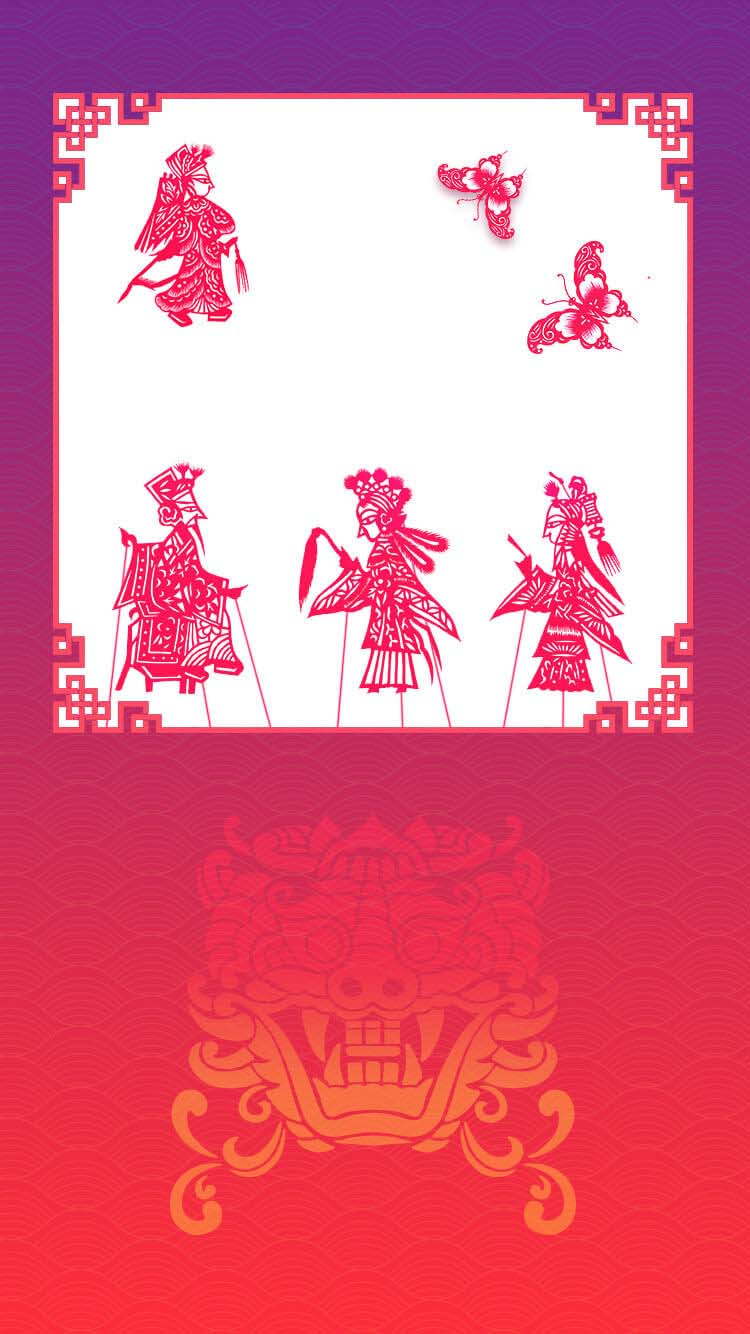
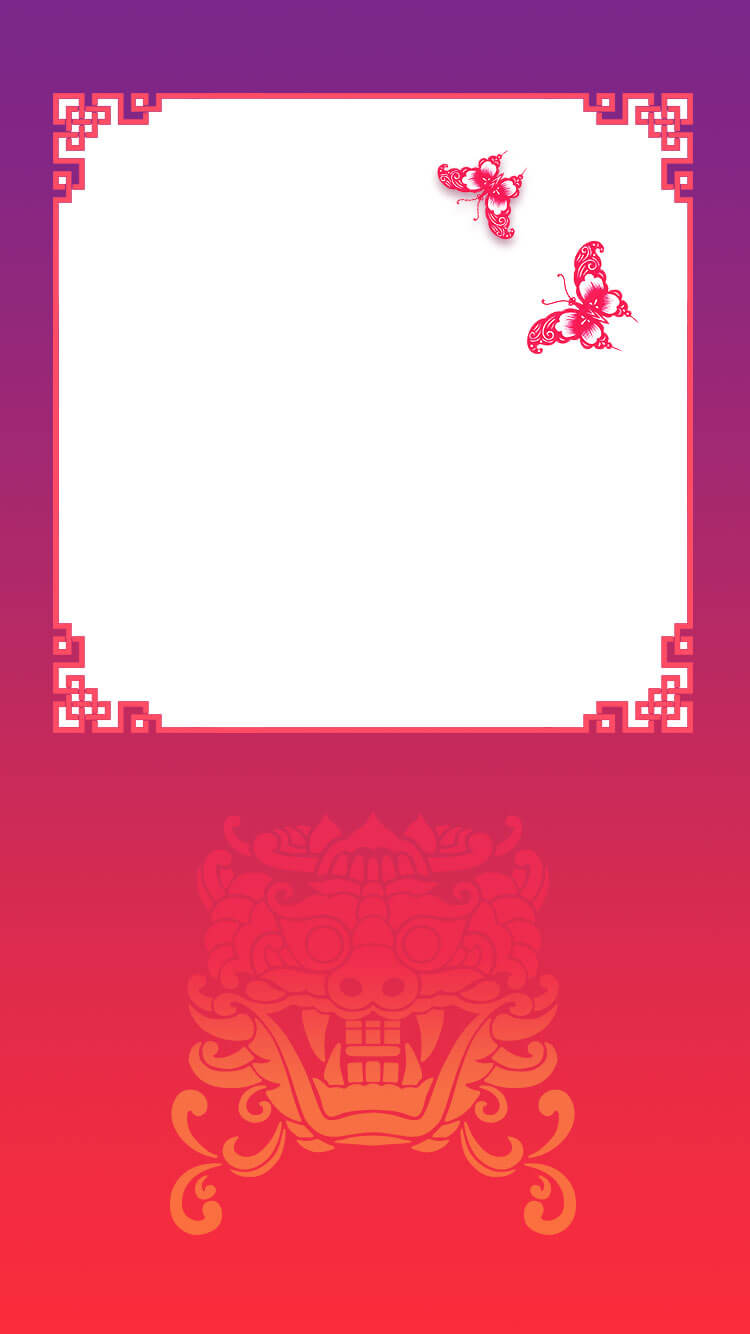
asdf

diff --git a/www/css/index.css b/www/css/index.css
@@ -1,1 +1,1 @@
-*{margin:0;padding:0;-webkit-box-sizing:border-box;-moz-box-sizing:border-box;box-sizing:border-box}:after,:before{-webkit-box-sizing:border-box;-moz-box-sizing:border-box;box-sizing:border-box}input,textarea{-webkit-appearance:none}a,button,img,input,textarea{-webkit-tap-highlight-color:rgba(255,255,255,0)}img{display:block}.fn-clear:after{visibility:hidden;display:block;font-size:0;content:" ";clear:both;height:0}.fn-clear{zoom:1}body,html{height:100%}.swiper-container{width:100%;height:100%;background:#fc2c3b}.swiper-slide{width:100%;height:100%}.ani{position:absolute}.swiper-pagination-bullet{background:#4e4f52;opacity:1}.swiper-pagination-bullet-active{background:#d4d4d7;opacity:1}.audioImg{position:fixed;top:30px;right:30px;width:60px;height:60px;z-index:99999;background:url(../images/music1.png) no-repeat;-webkit-tap-highlight-color:rgba(255,255,255,0);background-size:60px 60px}.audioImg.active{background:url(../images/music.png) no-repeat;background-size:60px 60px}.page1{background:url(../images/1.jpg) no-repeat;background-size:100% auto}.page2{background:url(../images/2.jpg) no-repeat;background-size:100% auto}.page3{background:url(../images/3.jpg) no-repeat;background-size:100% auto}.page4{background:url(../images/4.jpg) no-repeat;background-size:100% auto}.page5{background:url(../images/5.jpg) no-repeat;background-size:100% auto}.page6{background:url(../images/6.jpg) no-repeat;background-size:100% 100%}.page7{background:url(../images/7.jpg) no-repeat;background-size:100% 100%}.animated{display:none}.btnYun{position:fixed;display:none;bottom:.13333333rem;left:4.29333333rem;z-index:9999;animation:indicator 1.2s infinite ease-out;-webkit-animation:indicator 1.2s infinite ease-out}.page1 .logo{position:absolute;top:.8rem;left:3.06666667rem;width:3.68rem}.page1 .yuanpan{position:absolute;top:2.46666667rem;left:1rem;width:8rem}.page1 .animate1{position:absolute;width:8rem;top:2.48rem;left:.98666667rem;transform:rotate(-360deg);animation:loading1 15s linear infinite;-webkit-transform:rotate(-360deg);-webkit-animation:loading1 15s linear infinite}.page1 .animate2{position:absolute;width:7.68rem;top:2.64rem;left:1.17333333rem;transform:rotate(360deg);animation:loading2 10s linear infinite;-webkit-transform:rotate(360deg);-webkit-animation:loading2 10s linear infinite}.page1 .animate3{position:absolute;width:4.41333333rem;top:4.26666667rem;left:2.8rem;animation:animate3 .8s infinite;animation-direction:alternate;-webkit-animation:animate3 .8s infinite;-webkit-animation-direction:alternate}.page1 .xiaoji{position:absolute;top:1.33333333rem;right:.53333333rem;width:2.01333333rem;animation:xiaojichimi 3s infinite;animation-direction:alternate;-webkit-animation:xiaojichimi 3s infinite;-webkit-animation-direction:alternate}.page1 .xiangyun{position:absolute;top:3.33333333rem;left:.86666667rem;width:8.28rem;animation:mybird 5s linear infinite;animation-direction:alternate;-webkit-animation:mybird 5s linear infinite;-webkit-animation-direction:alternate}.page1 .duilian{position:absolute;top:2.53333333rem;left:3.53333333rem;width:3.28rem}.page1 .people1{position:absolute;top:9.94666667rem;left:0;width:3.98666667rem;animation:canglaomou 5s linear infinite;-webkit-animation:canglaomou 5s linear infinite}.page1 .people2{position:absolute;top:12.4rem;right:0;width:3.25333333rem}.page1 .words{position:absolute;top:13.10666667rem;left:1.4rem;width:7.64rem}.page2 .logo{position:absolute;top:1.46666667rem;left:3.06666667rem;width:3.68rem}.page2 .words{position:absolute;top:2.6rem;left:1.02666667rem;width:7.44rem}.page2 .words2{position:absolute;top:12.93333333rem;left:2.32rem;width:5.34666667rem}.page2 .animateWord{animation:animateWord 2.4s infinite ease-out;-webkit-animation:animateWord 2.4s infinite ease-out}.page3 .yunzi{position:absolute;width:6.64rem;top:10.66666667rem;left:1.33333333rem}.page3 .words{position:absolute;width:7.33333333rem;top:2.45333333rem;left:1.4rem}.page3 .logos{position:absolute;top:10rem;left:3.06666667rem;width:3.68rem}.page3 .animateWord{animation:tadaSelf 2.4s infinite ease-out;-webkit-animation:tadaSelf 2.4s infinite ease-out}.page4 .dapan{position:absolute;top:1.93333333rem;left:1.37333333rem;width:7.17333333rem;transform:rotate(360deg);animation:loading2 10s linear infinite;-webkit-transform:rotate(360deg);-webkit-animation:loading2 10s linear infinite}.page4 .word1{position:absolute;top:1.13333333rem;left:1.30666667rem;width:3.69333333rem}.page4 .kuaizi{position:absolute;top:.24rem;right:0;width:3.25333333rem}.page4 .word2{position:absolute;top:6.8rem;left:.8rem;width:8.38666667rem}.page4 .logo{position:absolute;top:12.93333333rem;left:3.06666667rem;width:3.68rem}.page5 .words1{position:absolute;width:6.46666667rem;left:1.62666667rem;top:1.26666667rem}.page5 .words2{position:absolute;width:5.98666667rem;left:2rem;top:6.33333333rem}.page5 .words3{position:absolute;width:5.25333333rem;left:2.33333333rem;top:13.70666667rem}.page5 .img1{position:absolute;width:15.62666667rem;z-index:3;left:0;bottom:0}.page5 .img4{position:absolute;width:15.62666667rem;z-index:3;left:-2.46666667rem;bottom:0}.page5 .img5{position:absolute;width:15.62666667rem;z-index:3;left:-4.98666667rem;bottom:0}.page6 .pan{position:absolute;width:10rem;top:.13333333rem;left:0}.page6 .words1{position:absolute;width:5.37333333rem;left:2.33333333rem;top:4.90666667rem}.page6 .words2{position:absolute;width:5.69333333rem;left:2.10666667rem;top:10.93333333rem}.page6 .words3{position:absolute;width:8.08rem;left:.8rem;top:13.06666667rem}.page6 .xiangyun{position:absolute;top:2rem;left:2.13333333rem;width:6.48rem;animation:mybird2 5s linear infinite;animation-direction:alternate;-webkit-animation:mybird2 5s linear infinite;-webkit-animation-direction:alternate}.page7 .sections{width:8.53333333rem;margin:2.33333333rem auto 0;border-radius:.26666667rem;padding:.46666667rem 1.26666667rem;background:#fff7e2}.page7 .sections .title{text-align:center;color:#ff3b3b;line-height:.66666667rem;font-size:36px}.page7 .sections .page-item{position:relative;padding-bottom:.46666667rem}.page7 .sections .page-item input{width:100%;border:1px solid #ffc424;border-radius:4px;height:.85333333rem;line-height:.85333333rem;padding:0 .26666667rem;font-size:24px}.page7 .sections .page-item input.inputDate{position:absolute;top:0;left:0;right:0;opacity:0;z-index:1}.page7 .sections .page-item .error{display:none;position:absolute;bottom:5px;left:0;color:red;font-size:20px}.page7 .sections .page-item.sex-item{color:#3b0f52}.page7 .sections .page-item.sex-item .ele{margin-right:.4rem;float:left;font-size:32px}.page7 .sections .page-item.sex-item .ele2{float:left;font-size:32px;margin-top:5px;margin-right:1.06666667rem}.page7 .sections .page-item.sex-item .ele2>div{position:relative;width:32px;height:32px;text-align:center;border-radius:50%;border:2px solid #ffc424}.page7 .sections .page-item.sex-item .ele2>div p{position:absolute;top:4px;left:4px;width:20px;height:20px;border-radius:50%}.page7 .sections .page-item.sex-item .ele2>div p.active{background:#ffc424}.page7 .sections .btnToSubmit{width:3.2rem;height:1.06666667rem;margin:.66666667rem auto 0;line-height:1.06666667rem;text-align:center;background:#ff4646;color:#ffc424;border-radius:10px;font-size:30px}.page-error{width:100%;height:100%;background:#fff}.page-error .bgimg{width:5.77333333rem;display:block;margin:0 auto}.page-error .error-msg{color:#e72824;text-align:center;font-size:32px;padding-top:.73333333rem;padding-bottom:.53333333rem}.page-error a{text-decoration:none}.page-error a .btn{width:3.2rem;height:1.06666667rem;line-height:1.06666667rem;text-align:center;color:#ffc724;margin:0 auto;background:#ff4545;border-radius:6px}.page-error .logo{margin:1.46666667rem auto 0;width:6.4rem;display:block}.page-success{width:100%;height:100%;position:relative;background:url(../images/8.jpg) no-repeat #b0121a;background-size:100% 100%}.page-success .box{position:absolute;top:50%;left:0;right:0}.page-success .box img.panzi{width:6.05333333rem;margin:0 auto;display:block}.page-success .box .info{text-align:center;color:#1c407b;font-size:32px;font-weight:900;height:160px;padding:30px;line-height:50px;background:#fff7e2}@-webkit-keyframes tadaSelf{0%{-webkit-transform:scale3d(1,1,1);transform:scale3d(1,1,1)}10%,20%{-webkit-transform:scale3d(.9,.9,.9) rotate3d(0,0,1,-3deg);transform:scale3d(.9,.9,.9) rotate3d(0,0,1,-3deg)}30%,50%,70%,90%{-webkit-transform:scale3d(1.1,1.1,1.1) rotate3d(0,0,1,3deg);transform:scale3d(1.1,1.1,1.1) rotate3d(0,0,1,3deg)}40%,60%,80%{-webkit-transform:scale3d(1.1,1.1,1.1) rotate3d(0,0,1,-3deg);transform:scale3d(1.1,1.1,1.1) rotate3d(0,0,1,-3deg)}100%{-webkit-transform:scale3d(1,1,1);transform:scale3d(1,1,1)}}@keyframes tadaSelf{0%{-webkit-transform:scale3d(1,1,1);-ms-transform:scale3d(1,1,1);transform:scale3d(1,1,1)}10%,20%{-webkit-transform:scale3d(.9,.9,.9) rotate3d(0,0,1,-3deg);-ms-transform:scale3d(.9,.9,.9) rotate3d(0,0,1,-3deg);transform:scale3d(.9,.9,.9) rotate3d(0,0,1,-3deg)}30%,50%,70%,90%{-webkit-transform:scale3d(1.1,1.1,1.1) rotate3d(0,0,1,3deg);-ms-transform:scale3d(1.1,1.1,1.1) rotate3d(0,0,1,3deg);transform:scale3d(1.1,1.1,1.1) rotate3d(0,0,1,3deg)}40%,60%,80%{-webkit-transform:scale3d(1.1,1.1,1.1) rotate3d(0,0,1,-3deg);-ms-transform:scale3d(1.1,1.1,1.1) rotate3d(0,0,1,-3deg);transform:scale3d(1.1,1.1,1.1) rotate3d(0,0,1,-3deg)}100%{-webkit-transform:scale3d(1,1,1);-ms-transform:scale3d(1,1,1);transform:scale3d(1,1,1)}}@-webkit-keyframes indicator{from{opacity:1}to{bottom:.66666667rem;opacity:.5}}@keyframes loading1{from{transform:rotate(0)}to{transform:rotate(-360deg)}}@-webkit-keyframes loading1{from{-webkit-transform:rotate(0)}to{-webkit-transform:rotate(-360deg)}}@keyframes indicator{from{opacity:1}to{bottom:.66666667rem;opacity:.5}}@keyframes animate3{from{opacity:1}to{opacity:.3}}@-webkit-keyframes animate3{from{opacity:1}to{opacity:.3}}@keyframes mybird{0%{left:.86666667rem}25%{left:1.66666667rem}50%{left:.86666667rem}75%{left:.33333333rem}100%{left:.86666667rem}}@-webkit-keyframes mybird{0%{left:.86666667rem}25%{left:1.66666667rem}50%{left:.86666667rem}75%{left:.33333333rem}100%{left:.86666667rem}}@keyframes mybird2{0%{left:2.13333333rem}25%{left:2.66666667rem}50%{left:2.13333333rem}75%{left:1.6rem}100%{left:2.13333333rem}}@-webkit-keyframes mybird2{0%{left:2.13333333rem}25%{left:2.66666667rem}50%{left:2.13333333rem}75%{left:1.6rem}100%{left:2.13333333rem}}@keyframes canglaomou{0%{opacity:1;left:-3.98666667rem}25%{left:-3.98666667rem}30%{left:-1.33333333rem}50%{left:-1.33333333rem}65%{left:0}90%{opacity:1}100%{opacity:0;left:0}}@-webkit-keyframes canglaomou{0%{opacity:1;left:-3.98666667rem}25%{left:-3.98666667rem}30%{left:-1.33333333rem}50%{left:-1.33333333rem}65%{left:0}90%{opacity:1}100%{opacity:0;left:0}}@keyframes loading2{from{transform:rotate(0)}to{transform:rotate(360deg)}}@-webkit-keyframes loading2{from{-webkit-transform:rotate(0)}to{-webkit-transform:rotate(360deg)}}@keyframes animateWord{0%{-webkit-transform:none;transform:none}7.5%{-webkit-transform:translate3d(-25%,0,0) rotate3d(0,0,1,-5deg);transform:translate3d(-25%,0,0) rotate3d(0,0,1,-5deg)}15%{-webkit-transform:translate3d(20%,0,0) rotate3d(0,0,1,3deg);transform:translate3d(20%,0,0) rotate3d(0,0,1,3deg)}22.5%{-webkit-transform:translate3d(-15%,0,0) rotate3d(0,0,1,-3deg);transform:translate3d(-15%,0,0) rotate3d(0,0,1,-3deg)}30%{-webkit-transform:translate3d(10%,0,0) rotate3d(0,0,1,2deg);transform:translate3d(10%,0,0) rotate3d(0,0,1,2deg)}37.5%{-webkit-transform:translate3d(-5%,0,0) rotate3d(0,0,1,-1deg);transform:translate3d(-5%,0,0) rotate3d(0,0,1,-1deg)}50%{-webkit-transform:none;transform:none}100%{-webkit-transform:none;transform:none}}@-webkit-keyframes animateWord{0%{-webkit-transform:none;transform:none}7.5%{-webkit-transform:translate3d(-25%,0,0) rotate3d(0,0,1,-5deg);transform:translate3d(-25%,0,0) rotate3d(0,0,1,-5deg)}15%{-webkit-transform:translate3d(20%,0,0) rotate3d(0,0,1,3deg);transform:translate3d(20%,0,0) rotate3d(0,0,1,3deg)}22.5%{-webkit-transform:translate3d(-15%,0,0) rotate3d(0,0,1,-3deg);transform:translate3d(-15%,0,0) rotate3d(0,0,1,-3deg)}30%{-webkit-transform:translate3d(10%,0,0) rotate3d(0,0,1,2deg);transform:translate3d(10%,0,0) rotate3d(0,0,1,2deg)}37.5%{-webkit-transform:translate3d(-5%,0,0) rotate3d(0,0,1,-1deg);transform:translate3d(-5%,0,0) rotate3d(0,0,1,-1deg)}50%{-webkit-transform:none;transform:none}100%{-webkit-transform:none;transform:none}}@keyframes xiaojichimi{0%{transform:rotate(0)}30%{transform:rotate(0)}40%{transform:rotate(-15deg)}50%{transform:rotate(-30deg)}60%{transform:rotate(-30deg)}70%{transform:rotate(-15deg)}80%{transform:rotate(0)}100%{transform:rotate(0)}}@-webkit-keyframes xiaojichimi{0%{transform:rotate(0)}30%{transform:rotate(0)}60%{transform:rotate(-35deg)}90%{transform:rotate(0)}100%{transform:rotate(0)}}
+*{margin:0;padding:0;-webkit-box-sizing:border-box;-moz-box-sizing:border-box;box-sizing:border-box}:after,:before{-webkit-box-sizing:border-box;-moz-box-sizing:border-box;box-sizing:border-box}input,textarea{-webkit-appearance:none}a,button,img,input,textarea{-webkit-tap-highlight-color:rgba(255,255,255,0)}img{display:block}.fn-clear:after{visibility:hidden;display:block;font-size:0;content:" ";clear:both;height:0}.fn-clear{zoom:1}body,html{height:100%}.swiper-container{width:100%;height:100%;background:#fc2c3b}.swiper-slide{width:100%;height:100%}.ani{position:absolute}.swiper-pagination-bullet{background:#4e4f52;opacity:1}.swiper-pagination-bullet-active{background:#d4d4d7;opacity:1}.audioImg{position:fixed;top:30px;right:30px;width:60px;height:60px;z-index:99999;background:url(../images/music1.png) no-repeat;-webkit-tap-highlight-color:rgba(255,255,255,0);background-size:60px 60px}.audioImg.active{background:url(../images/music.png) no-repeat;background-size:60px 60px}.page1{background:url(../images/1.jpg) no-repeat;background-size:100% auto}.page2{background:url(../images/2.jpg) no-repeat;background-size:100% auto}.page3{background:url(../images/3.jpg) no-repeat;background-size:100% auto}.page4{background:url(../images/4.jpg) no-repeat;background-size:100% auto}.page5{background:url(../images/5.jpg) no-repeat;background-size:100% auto}.page6{background:url(../images/6.jpg) no-repeat;background-size:100% 100%}.page7{background:url(../images/7.jpg) no-repeat;background-size:100% 100%}.animated{display:none}.btnYun{position:fixed;display:none;bottom:.13333333rem;left:4.29333333rem;z-index:9999;animation:indicator 1.2s infinite ease-out;-webkit-animation:indicator 1.2s infinite ease-out}.page1 .logo{position:absolute;top:.8rem;left:3.06666667rem;width:3.68rem}.page1 .yuanpan{position:absolute;top:2.46666667rem;left:1rem;width:8rem}.page1 .animate1{position:absolute;width:8rem;top:2.48rem;left:.98666667rem;transform:rotate(-360deg);animation:loading1 15s linear infinite;-webkit-transform:rotate(-360deg);-webkit-animation:loading1 15s linear infinite}.page1 .animate2{position:absolute;width:7.68rem;top:2.64rem;left:1.17333333rem;transform:rotate(360deg);animation:loading2 10s linear infinite;-webkit-transform:rotate(360deg);-webkit-animation:loading2 10s linear infinite}.page1 .animate3{position:absolute;width:4.41333333rem;top:4.26666667rem;left:2.8rem;animation:animate3 .8s infinite;animation-direction:alternate;-webkit-animation:animate3 .8s infinite;-webkit-animation-direction:alternate}.page1 .xiaoji{position:absolute;top:1.33333333rem;right:.53333333rem;width:2.01333333rem;animation:xiaojichimi 3s infinite;animation-direction:alternate;-webkit-animation:xiaojichimi 3s infinite;-webkit-animation-direction:alternate}.page1 .xiangyun{position:absolute;top:3.33333333rem;left:.86666667rem;width:8.28rem;animation:mybird 5s linear infinite;animation-direction:alternate;-webkit-animation:mybird 5s linear infinite;-webkit-animation-direction:alternate}.page1 .duilian{position:absolute;top:2.53333333rem;left:3.53333333rem;width:3.28rem}.page1 .people1{position:absolute;top:9.94666667rem;left:0;width:3.98666667rem;animation:canglaomou 5s linear infinite;-webkit-animation:canglaomou 5s linear infinite}.page1 .people2{position:absolute;top:12.4rem;right:0;width:3.25333333rem}.page1 .words{position:absolute;top:13.10666667rem;left:1.4rem;width:7.64rem}.page2 .logo{position:absolute;top:1.46666667rem;left:3.06666667rem;width:3.68rem}.page2 .words{position:absolute;top:2.6rem;left:1.02666667rem;width:7.44rem}.page2 .words2{position:absolute;top:12.93333333rem;left:2.32rem;width:5.34666667rem}.page2 .animateWord{animation:animateWord 2.4s infinite ease-out;-webkit-animation:animateWord 2.4s infinite ease-out}.page3 .yunzi{position:absolute;width:6.64rem;top:10.66666667rem;left:1.33333333rem}.page3 .words{position:absolute;width:7.33333333rem;top:2.45333333rem;left:1.4rem}.page3 .piying1{position:absolute;width:1.76rem;top:1.86666667rem;left:1.53333333rem;animation:piying1 3s infinite;animation-direction:alternate;-webkit-animation:piying1 3s infinite;-webkit-animation-direction:alternate}.page3 .piying2{position:absolute;width:2.72rem;top:6.13333333rem;left:1.33333333rem;animation:piying2 3s infinite;animation-direction:alternate;-webkit-animation:piying2 3s infinite;-webkit-animation-direction:alternate}.page3 .piying3{position:absolute;width:2.42666667rem;top:6.2rem;left:3.93333333rem;animation:piying3 3s infinite;animation-direction:alternate;-webkit-animation:piying3 3s infinite;-webkit-animation-direction:alternate}.page3 .piying4{position:absolute;width:2rem;top:6.26666667rem;left:6.46666667rem;animation:piying4 3s infinite;animation-direction:alternate;-webkit-animation:piying4 3s infinite;-webkit-animation-direction:alternate}@keyframes piying1{0%{transform:rotate(0)}30%{transform:rotate(0)}40%{transform:rotate(15deg)}70%{transform:rotate(15deg)}80%{transform:rotate(0)}100%{transform:rotate(0)}}@-webkit-keyframes piying1{0%{transform:rotate(0)}30%{transform:rotate(0)}40%{transform:rotate(15deg)}70%{transform:rotate(15deg)}80%{transform:rotate(0)}100%{transform:rotate(0)}}@keyframes piying2{0%{transform:rotate(0)}50%{transform:rotate(0)}60%{transform:rotate(10deg)}80%{transform:rotate(10deg)}100%{transform:rotate(0)}}@-webkit-keyframes piying2{0%{transform:rotate(0)}50%{transform:rotate(0)}60%{transform:rotate(10deg)}80%{transform:rotate(10deg)}100%{transform:rotate(0)}}@keyframes piying3{0%{transform:rotate(0)}30%{transform:rotate(0)}40%{transform:rotate(-15deg)}70%{transform:rotate(-15deg)}80%{transform:rotate(0)}100%{transform:rotate(0)}}@-webkit-keyframes piying3{0%{transform:rotate(0)}30%{transform:rotate(0)}40%{transform:rotate(-15deg)}70%{transform:rotate(-15deg)}80%{transform:rotate(0)}100%{transform:rotate(0)}}@keyframes piying4{0%{transform:rotate(0)}30%{transform:rotate(0)}40%{transform:rotate(-15deg)}60%{transform:rotate(-15deg)}70%{transform:rotate(0)}80%{transform:rotate(15deg)}90%{transform:rotate(0)}100%{transform:rotate(0)}}@-webkit-keyframes piying4{0%{transform:rotate(0)}30%{transform:rotate(0)}40%{transform:rotate(-15deg)}60%{transform:rotate(-15deg)}70%{transform:rotate(0)}80%{transform:rotate(15deg)}90%{transform:rotate(0)}100%{transform:rotate(0)}}.page4 .dapan{position:absolute;top:1.93333333rem;left:1.37333333rem;width:7.17333333rem;transform:rotate(360deg);animation:loading2 10s linear infinite;-webkit-transform:rotate(360deg);-webkit-animation:loading2 10s linear infinite}.page4 .word1{position:absolute;top:1.13333333rem;left:1.30666667rem;width:3.69333333rem}.page4 .kuaizi{position:absolute;top:.24rem;right:0;width:3.25333333rem}.page4 .word2{position:absolute;top:6.8rem;left:.8rem;width:8.38666667rem}.page4 .logo{position:absolute;top:12.93333333rem;left:3.06666667rem;width:3.68rem}.page5 .words1{position:absolute;width:6.46666667rem;left:1.62666667rem;top:1.26666667rem}.page5 .words2{position:absolute;width:5.98666667rem;left:2rem;top:6.33333333rem}.page5 .words3{position:absolute;width:5.25333333rem;left:2.33333333rem;top:13.70666667rem}.page5 .img1{position:absolute;width:15.62666667rem;z-index:3;left:0;bottom:0}.page5 .img4{position:absolute;width:15.62666667rem;z-index:3;left:-2.46666667rem;bottom:0}.page5 .img5{position:absolute;width:15.62666667rem;z-index:3;left:-4.98666667rem;bottom:0}.page6 .pan{position:absolute;width:10rem;top:.13333333rem;left:0}.page6 .words1{position:absolute;width:5.37333333rem;left:2.33333333rem;top:4.90666667rem}.page6 .words2{position:absolute;width:5.69333333rem;left:2.10666667rem;top:10.93333333rem}.page6 .words3{position:absolute;width:8.08rem;left:.8rem;top:13.06666667rem}.page6 .xiangyun{position:absolute;top:2rem;left:2.13333333rem;width:6.48rem;animation:mybird2 5s linear infinite;animation-direction:alternate;-webkit-animation:mybird2 5s linear infinite;-webkit-animation-direction:alternate}.page7 .sections{width:8.53333333rem;margin:2.33333333rem auto 0;border-radius:.26666667rem;padding:.46666667rem 1.26666667rem;background:#fff7e2}.page7 .sections .title{text-align:center;color:#ff3b3b;line-height:.66666667rem;font-size:36px}.page7 .sections .page-item{position:relative;padding-bottom:.46666667rem}.page7 .sections .page-item input{width:100%;border:1px solid #ffc424;border-radius:4px;height:.85333333rem;line-height:.85333333rem;padding:0 .26666667rem;font-size:24px}.page7 .sections .page-item input.inputDate{position:absolute;top:0;left:0;right:0;opacity:0;z-index:1}.page7 .sections .page-item .error{display:none;position:absolute;bottom:5px;left:0;color:red;font-size:20px}.page7 .sections .page-item.sex-item{color:#3b0f52}.page7 .sections .page-item.sex-item .ele{margin-right:.4rem;float:left;font-size:32px}.page7 .sections .page-item.sex-item .ele2{float:left;font-size:32px;margin-top:5px;margin-right:1.06666667rem}.page7 .sections .page-item.sex-item .ele2>div{position:relative;width:32px;height:32px;text-align:center;border-radius:50%;border:2px solid #ffc424}.page7 .sections .page-item.sex-item .ele2>div p{position:absolute;top:4px;left:4px;width:20px;height:20px;border-radius:50%}.page7 .sections .page-item.sex-item .ele2>div p.active{background:#ffc424}.page7 .sections .btnToSubmit{width:3.2rem;height:1.06666667rem;margin:.66666667rem auto 0;line-height:1.06666667rem;text-align:center;background:#ff4646;color:#ffc424;border-radius:10px;font-size:30px}.page-error{width:100%;height:100%;background:#fff}.page-error .bgimg{width:5.77333333rem;display:block;margin:0 auto}.page-error .error-msg{color:#e72824;text-align:center;font-size:32px;padding-top:.73333333rem;padding-bottom:.53333333rem}.page-error a{text-decoration:none}.page-error a .btn{width:3.2rem;height:1.06666667rem;line-height:1.06666667rem;text-align:center;color:#ffc724;margin:0 auto;background:#ff4545;border-radius:6px}.page-error .logo{margin:1.46666667rem auto 0;width:6.4rem;display:block}.page-success{width:100%;height:100%;position:relative;background:url(../images/8.jpg) no-repeat #b0121a;background-size:100% 100%}.page-success .box{position:absolute;top:50%;left:0;right:0}.page-success .box img.panzi{width:6.05333333rem;margin:0 auto;display:block}.page-success .box .info{text-align:center;color:#1c407b;font-size:32px;font-weight:900;height:160px;padding:30px;line-height:50px;background:#fff7e2}@-webkit-keyframes tadaSelf{0%{-webkit-transform:scale3d(1,1,1);transform:scale3d(1,1,1)}10%,20%{-webkit-transform:scale3d(.9,.9,.9) rotate3d(0,0,1,-3deg);transform:scale3d(.9,.9,.9) rotate3d(0,0,1,-3deg)}30%,50%,70%,90%{-webkit-transform:scale3d(1.1,1.1,1.1) rotate3d(0,0,1,3deg);transform:scale3d(1.1,1.1,1.1) rotate3d(0,0,1,3deg)}40%,60%,80%{-webkit-transform:scale3d(1.1,1.1,1.1) rotate3d(0,0,1,-3deg);transform:scale3d(1.1,1.1,1.1) rotate3d(0,0,1,-3deg)}100%{-webkit-transform:scale3d(1,1,1);transform:scale3d(1,1,1)}}@keyframes tadaSelf{0%{-webkit-transform:scale3d(1,1,1);-ms-transform:scale3d(1,1,1);transform:scale3d(1,1,1)}10%,20%{-webkit-transform:scale3d(.9,.9,.9) rotate3d(0,0,1,-3deg);-ms-transform:scale3d(.9,.9,.9) rotate3d(0,0,1,-3deg);transform:scale3d(.9,.9,.9) rotate3d(0,0,1,-3deg)}30%,50%,70%,90%{-webkit-transform:scale3d(1.1,1.1,1.1) rotate3d(0,0,1,3deg);-ms-transform:scale3d(1.1,1.1,1.1) rotate3d(0,0,1,3deg);transform:scale3d(1.1,1.1,1.1) rotate3d(0,0,1,3deg)}40%,60%,80%{-webkit-transform:scale3d(1.1,1.1,1.1) rotate3d(0,0,1,-3deg);-ms-transform:scale3d(1.1,1.1,1.1) rotate3d(0,0,1,-3deg);transform:scale3d(1.1,1.1,1.1) rotate3d(0,0,1,-3deg)}100%{-webkit-transform:scale3d(1,1,1);-ms-transform:scale3d(1,1,1);transform:scale3d(1,1,1)}}@-webkit-keyframes indicator{from{opacity:1}to{bottom:.66666667rem;opacity:.5}}@keyframes loading1{from{transform:rotate(0)}to{transform:rotate(-360deg)}}@-webkit-keyframes loading1{from{-webkit-transform:rotate(0)}to{-webkit-transform:rotate(-360deg)}}@keyframes indicator{from{opacity:1}to{bottom:.66666667rem;opacity:.5}}@keyframes animate3{from{opacity:1}to{opacity:.3}}@-webkit-keyframes animate3{from{opacity:1}to{opacity:.3}}@keyframes mybird{0%{left:.86666667rem}25%{left:1.66666667rem}50%{left:.86666667rem}75%{left:.33333333rem}100%{left:.86666667rem}}@-webkit-keyframes mybird{0%{left:.86666667rem}25%{left:1.66666667rem}50%{left:.86666667rem}75%{left:.33333333rem}100%{left:.86666667rem}}@keyframes mybird2{0%{left:2.13333333rem}25%{left:2.66666667rem}50%{left:2.13333333rem}75%{left:1.6rem}100%{left:2.13333333rem}}@-webkit-keyframes mybird2{0%{left:2.13333333rem}25%{left:2.66666667rem}50%{left:2.13333333rem}75%{left:1.6rem}100%{left:2.13333333rem}}@keyframes canglaomou{0%{opacity:1;left:-3.98666667rem}25%{left:-3.98666667rem}30%{left:-1.33333333rem}50%{left:-1.33333333rem}65%{left:0}90%{opacity:1}100%{opacity:0;left:0}}@-webkit-keyframes canglaomou{0%{opacity:1;left:-3.98666667rem}25%{left:-3.98666667rem}30%{left:-1.33333333rem}50%{left:-1.33333333rem}65%{left:0}90%{opacity:1}100%{opacity:0;left:0}}@keyframes loading2{from{transform:rotate(0)}to{transform:rotate(360deg)}}@-webkit-keyframes loading2{from{-webkit-transform:rotate(0)}to{-webkit-transform:rotate(360deg)}}@keyframes animateWord{0%{-webkit-transform:none;transform:none}7.5%{-webkit-transform:translate3d(-25%,0,0) rotate3d(0,0,1,-5deg);transform:translate3d(-25%,0,0) rotate3d(0,0,1,-5deg)}15%{-webkit-transform:translate3d(20%,0,0) rotate3d(0,0,1,3deg);transform:translate3d(20%,0,0) rotate3d(0,0,1,3deg)}22.5%{-webkit-transform:translate3d(-15%,0,0) rotate3d(0,0,1,-3deg);transform:translate3d(-15%,0,0) rotate3d(0,0,1,-3deg)}30%{-webkit-transform:translate3d(10%,0,0) rotate3d(0,0,1,2deg);transform:translate3d(10%,0,0) rotate3d(0,0,1,2deg)}37.5%{-webkit-transform:translate3d(-5%,0,0) rotate3d(0,0,1,-1deg);transform:translate3d(-5%,0,0) rotate3d(0,0,1,-1deg)}50%{-webkit-transform:none;transform:none}100%{-webkit-transform:none;transform:none}}@-webkit-keyframes animateWord{0%{-webkit-transform:none;transform:none}7.5%{-webkit-transform:translate3d(-25%,0,0) rotate3d(0,0,1,-5deg);transform:translate3d(-25%,0,0) rotate3d(0,0,1,-5deg)}15%{-webkit-transform:translate3d(20%,0,0) rotate3d(0,0,1,3deg);transform:translate3d(20%,0,0) rotate3d(0,0,1,3deg)}22.5%{-webkit-transform:translate3d(-15%,0,0) rotate3d(0,0,1,-3deg);transform:translate3d(-15%,0,0) rotate3d(0,0,1,-3deg)}30%{-webkit-transform:translate3d(10%,0,0) rotate3d(0,0,1,2deg);transform:translate3d(10%,0,0) rotate3d(0,0,1,2deg)}37.5%{-webkit-transform:translate3d(-5%,0,0) rotate3d(0,0,1,-1deg);transform:translate3d(-5%,0,0) rotate3d(0,0,1,-1deg)}50%{-webkit-transform:none;transform:none}100%{-webkit-transform:none;transform:none}}@keyframes xiaojichimi{0%{transform:rotate(0)}30%{transform:rotate(0)}40%{transform:rotate(-15deg)}50%{transform:rotate(-30deg)}60%{transform:rotate(-30deg)}70%{transform:rotate(-15deg)}80%{transform:rotate(0)}100%{transform:rotate(0)}}@-webkit-keyframes xiaojichimi{0%{transform:rotate(0)}30%{transform:rotate(0)}60%{transform:rotate(-35deg)}90%{transform:rotate(0)}100%{transform:rotate(0)}}

diff --git a/www/css/index.less b/www/css/index.less
@@ -275,17 +275,223 @@ body {
         top: 184/@per;
         left: 105/@per;
     }
-    .logos {
+    .piying1{
         position: absolute;
-        top: 750/@per;
-        left: 230/@per;
-        width: 276/@per;
+        width: 132/@per;
+        top: 140/@per;
+        left: 115/@per;
+        animation: piying1 3s infinite;
+        animation-direction: alternate;
+        -webkit-animation: piying1 3s infinite;
+        -webkit-animation-direction: alternate;
     }
-    .animateWord {
-        animation: tadaSelf 2.4s infinite ease-out;
-        -webkit-animation: tadaSelf 2.4s infinite ease-out;
+    .piying2{
+        position: absolute;
+        width: 204/@per;
+        top: 460/@per;
+        left: 100/@per;
+        animation: piying2 3s infinite;
+        animation-direction: alternate;
+        -webkit-animation: piying2 3s infinite;
+        -webkit-animation-direction: alternate;
+    }
+    .piying3{
+        position: absolute;
+        width: 182/@per;
+        top: 465/@per;
+        left: 295/@per;
+        animation: piying3 3s infinite;
+        animation-direction: alternate;
+        -webkit-animation: piying3 3s infinite;
+        -webkit-animation-direction: alternate;
+    }
+    .piying4{
+        position: absolute;
+        width: 150/@per;
+        top: 470/@per;
+        left: 485/@per;
+        animation: piying4 3s infinite;
+        animation-direction: alternate;
+        -webkit-animation: piying4 3s infinite;
+        -webkit-animation-direction: alternate;
     }
 }
+@keyframes piying1 {
+    0% {
+        transform: rotate(0deg)
+    }
+    30% {
+        transform: rotate(0deg)
+    }
+    40% {
+        transform: rotate(15deg)
+    }
+    70% {
+        transform: rotate(15deg)
+    }
+    80% {
+        transform: rotate(0deg)
+    }
+    100% {
+        transform: rotate(0deg)
+    }
+}
+
+@-webkit-keyframes piying1 {
+    0% {
+        transform: rotate(0deg)
+    }
+    30% {
+        transform: rotate(0deg)
+    }
+    40% {
+        transform: rotate(15deg)
+    }
+    70% {
+        transform: rotate(15deg)
+    }
+    80% {
+        transform: rotate(0deg)
+    }
+    100% {
+        transform: rotate(0deg)
+    }
+}
+
+@keyframes piying2 {
+    0% {
+        transform: rotate(0deg)
+    }
+    50% {
+        transform: rotate(0deg)
+    }
+    60% {
+        transform: rotate(10deg)
+    }
+    80% {
+        transform: rotate(10deg)
+    }
+    100% {
+        transform: rotate(0deg)
+    }
+}
+
+@-webkit-keyframes piying2 {
+    0% {
+        transform: rotate(0deg)
+    }
+    50% {
+        transform: rotate(0deg)
+    }
+    60% {
+        transform: rotate(10deg)
+    }
+    80% {
+        transform: rotate(10deg)
+    }
+    100% {
+        transform: rotate(0deg)
+    }
+}
+
+@keyframes piying3 {
+    0% {
+        transform: rotate(0deg)
+    }
+    30% {
+        transform: rotate(0deg)
+    }
+    40% {
+        transform: rotate(-15deg)
+    }
+    70% {
+        transform: rotate(-15deg)
+    }
+    80% {
+        transform: rotate(0deg)
+    }
+    100% {
+        transform: rotate(0deg)
+    }
+}
+
+@-webkit-keyframes piying3 {
+    0% {
+        transform: rotate(0deg)
+    }
+    30% {
+        transform: rotate(0deg)
+    }
+    40% {
+        transform: rotate(-15deg)
+    }
+    70% {
+        transform: rotate(-15deg)
+    }
+    80% {
+        transform: rotate(0deg)
+    }
+    100% {
+        transform: rotate(0deg)
+    }
+}
+
+@keyframes piying4 {
+    0% {
+        transform: rotate(0deg)
+    }
+    30% {
+        transform: rotate(0deg)
+    }
+    40% {
+        transform: rotate(-15deg)
+    }
+    60% {
+        transform: rotate(-15deg)
+    }
+    70% {
+        transform: rotate(0deg)
+    }
+    80% {
+        transform: rotate(15deg)
+    }
+    90%{
+        transform: rotate(0deg)
+    }
+    100% {
+        transform: rotate(0deg)
+    }
+}
+
+@-webkit-keyframes piying4 {
+    0% {
+        transform: rotate(0deg)
+    }
+    30% {
+        transform: rotate(0deg)
+    }
+    40% {
+        transform: rotate(-15deg)
+    }
+    60% {
+        transform: rotate(-15deg)
+    }
+    70% {
+        transform: rotate(0deg)
+    }
+    80% {
+        transform: rotate(15deg)
+    }
+    90%{
+        transform: rotate(0deg)
+    }
+    100% {
+        transform: rotate(0deg)
+    }
+}
+
+
+
 
 .page4 {
     .dapan {

diff --git a/www/index.html b/www/index.html
@@ -41,6 +41,10 @@
                 <img class="animated Left words2" src="images/2-1.png">
             </div>
             <div class="swiper-slide page3">
+                <img src="images/3-3.png" class="animateSelf piying1" alt="">
+                <img src="images/3-4.png" class="animateSelf piying2" alt="">
+                <img src="images/3-5.png" class="animateSelf piying3" alt="">
+                <img src="images/3-6.png" class="animateSelf piying4" alt="">
                 <img class="animated Right yunzi" src="images/3-2.png" alt="">
                 <img class="animated Tada animateSelf animateWord words" src="images/3-1.png" alt="">
             </div>
